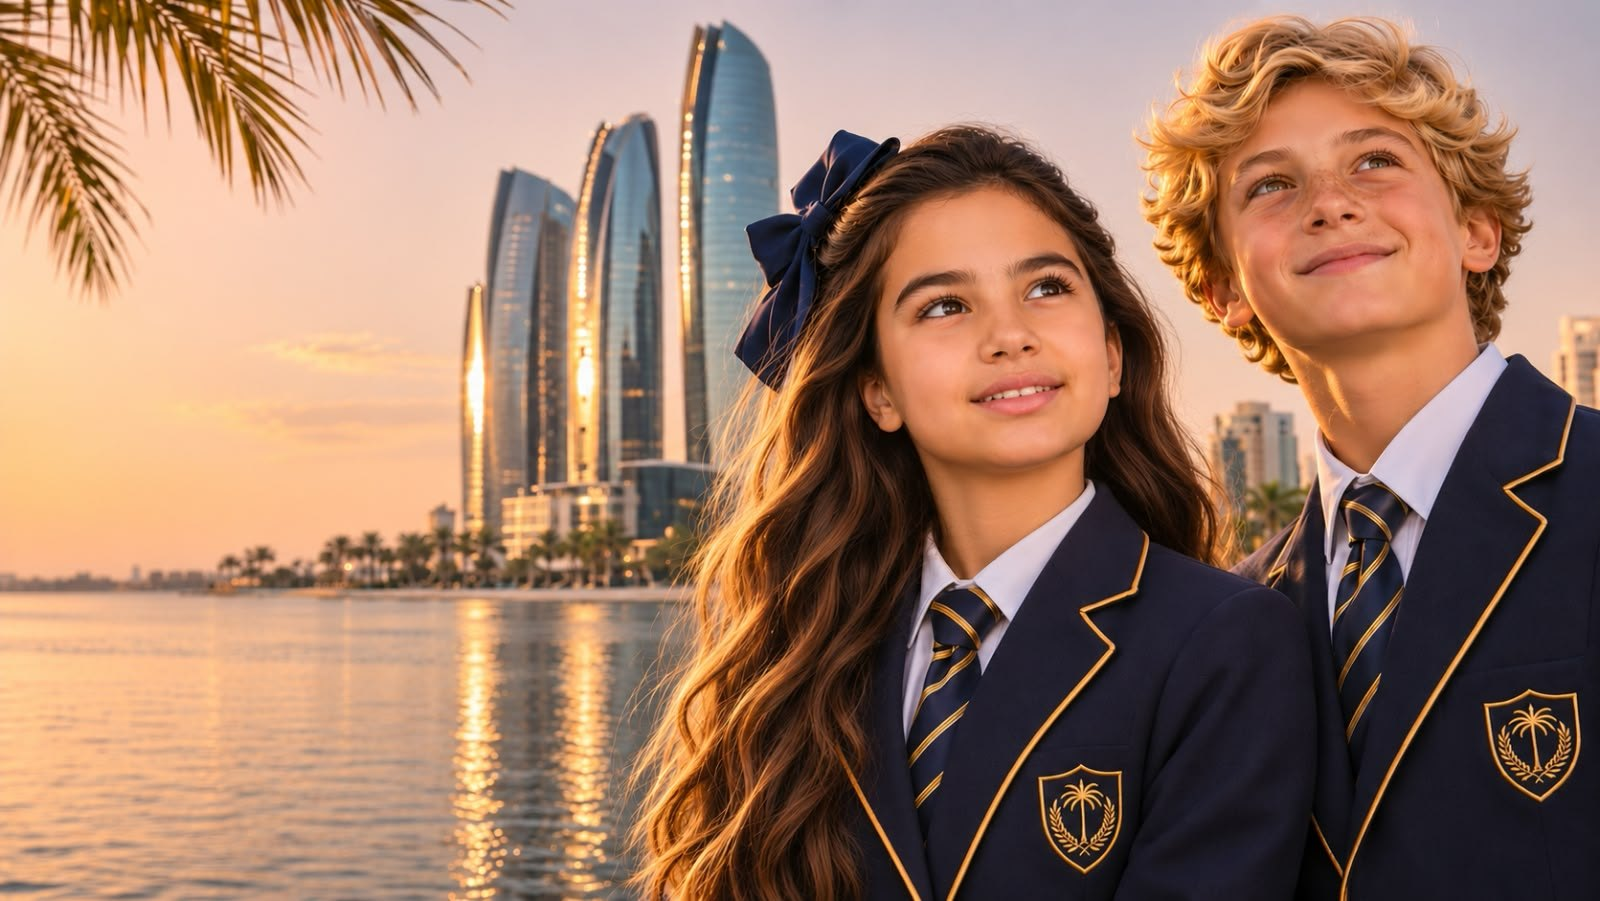
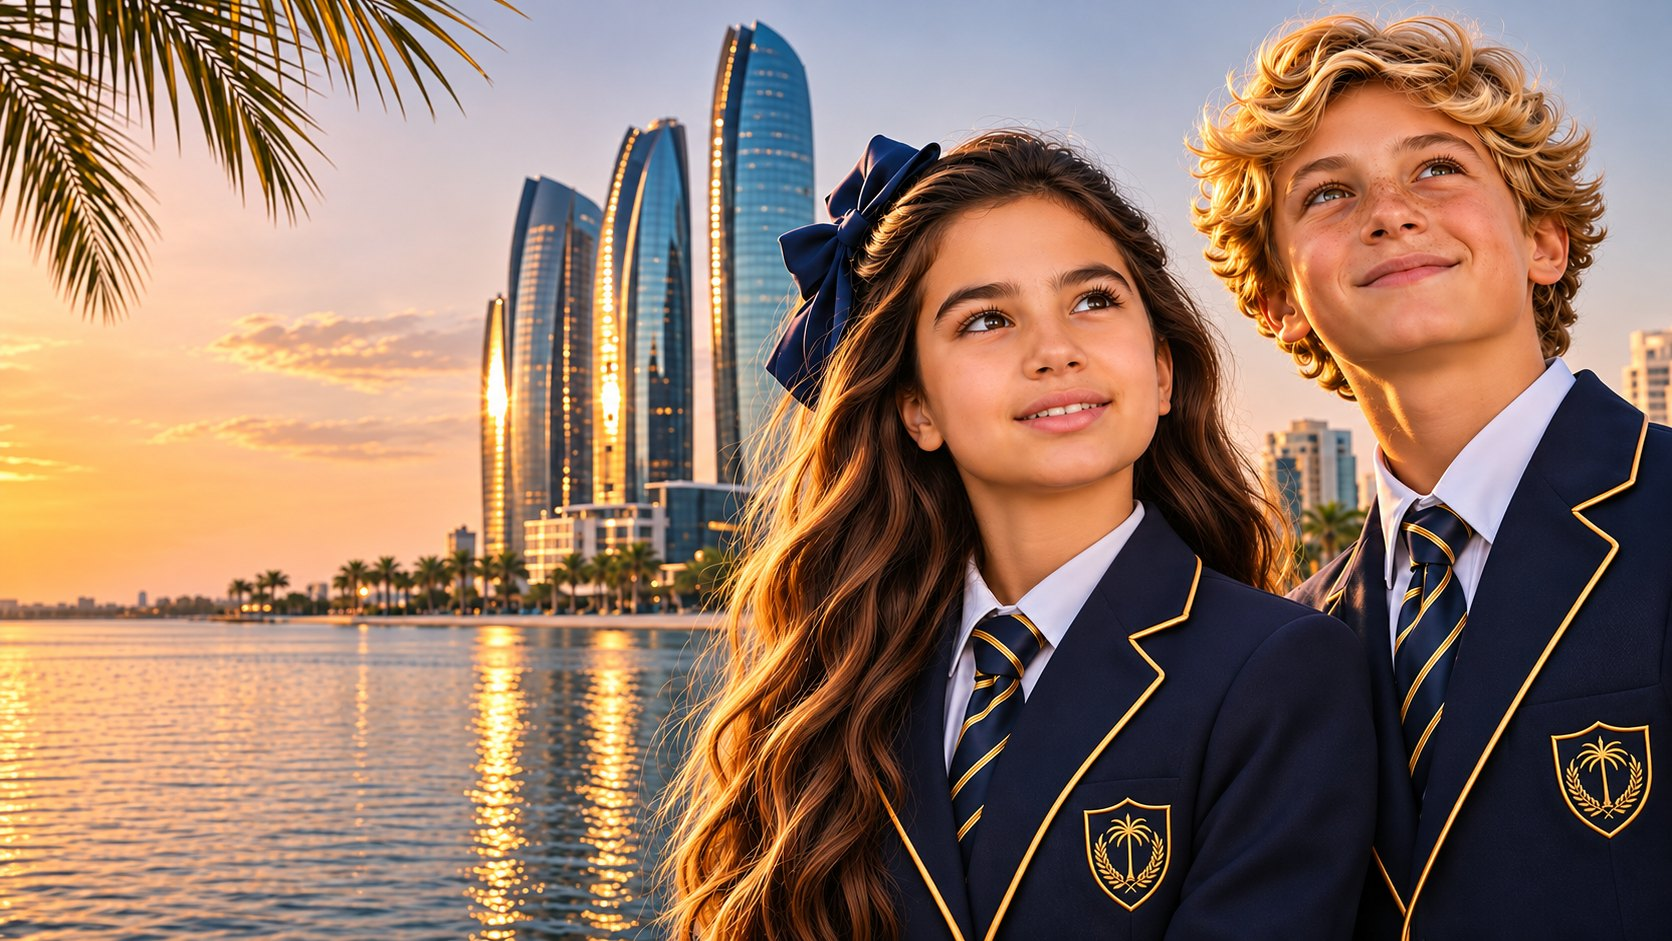
Картинка первого экрана в лучшем качестве

diff --git a/ru/index.html b/ru/index.html
@@ -54,7 +54,7 @@
 <section class="hero">
  <picture class="hero__bg">
   <source media="(max-width: 760px)" srcset="../assets/img/hero-m.jpg">
-  <img src="../assets/img/hero.jpg" width="1600" height="901" alt="" fetchpriority="high">
+  <img src="../assets/img/hero.jpg" width="1672" height="941" alt="" fetchpriority="high">
  </picture>
  <span class="hero__pattern" aria-hidden="true"></span>
  <div class="hero__in wrap">

diff --git a/index.html b/index.html
@@ -54,7 +54,7 @@
 <section class="hero">
  <picture class="hero__bg">
   <source media="(max-width: 760px)" srcset="assets/img/hero-m.jpg">
-  <img src="assets/img/hero.jpg" width="1600" height="901" alt="" fetchpriority="high">
+  <img src="assets/img/hero.jpg" width="1672" height="941" alt="" fetchpriority="high">
  </picture>
  <span class="hero__pattern" aria-hidden="true"></span>
  <div class="hero__in wrap">
